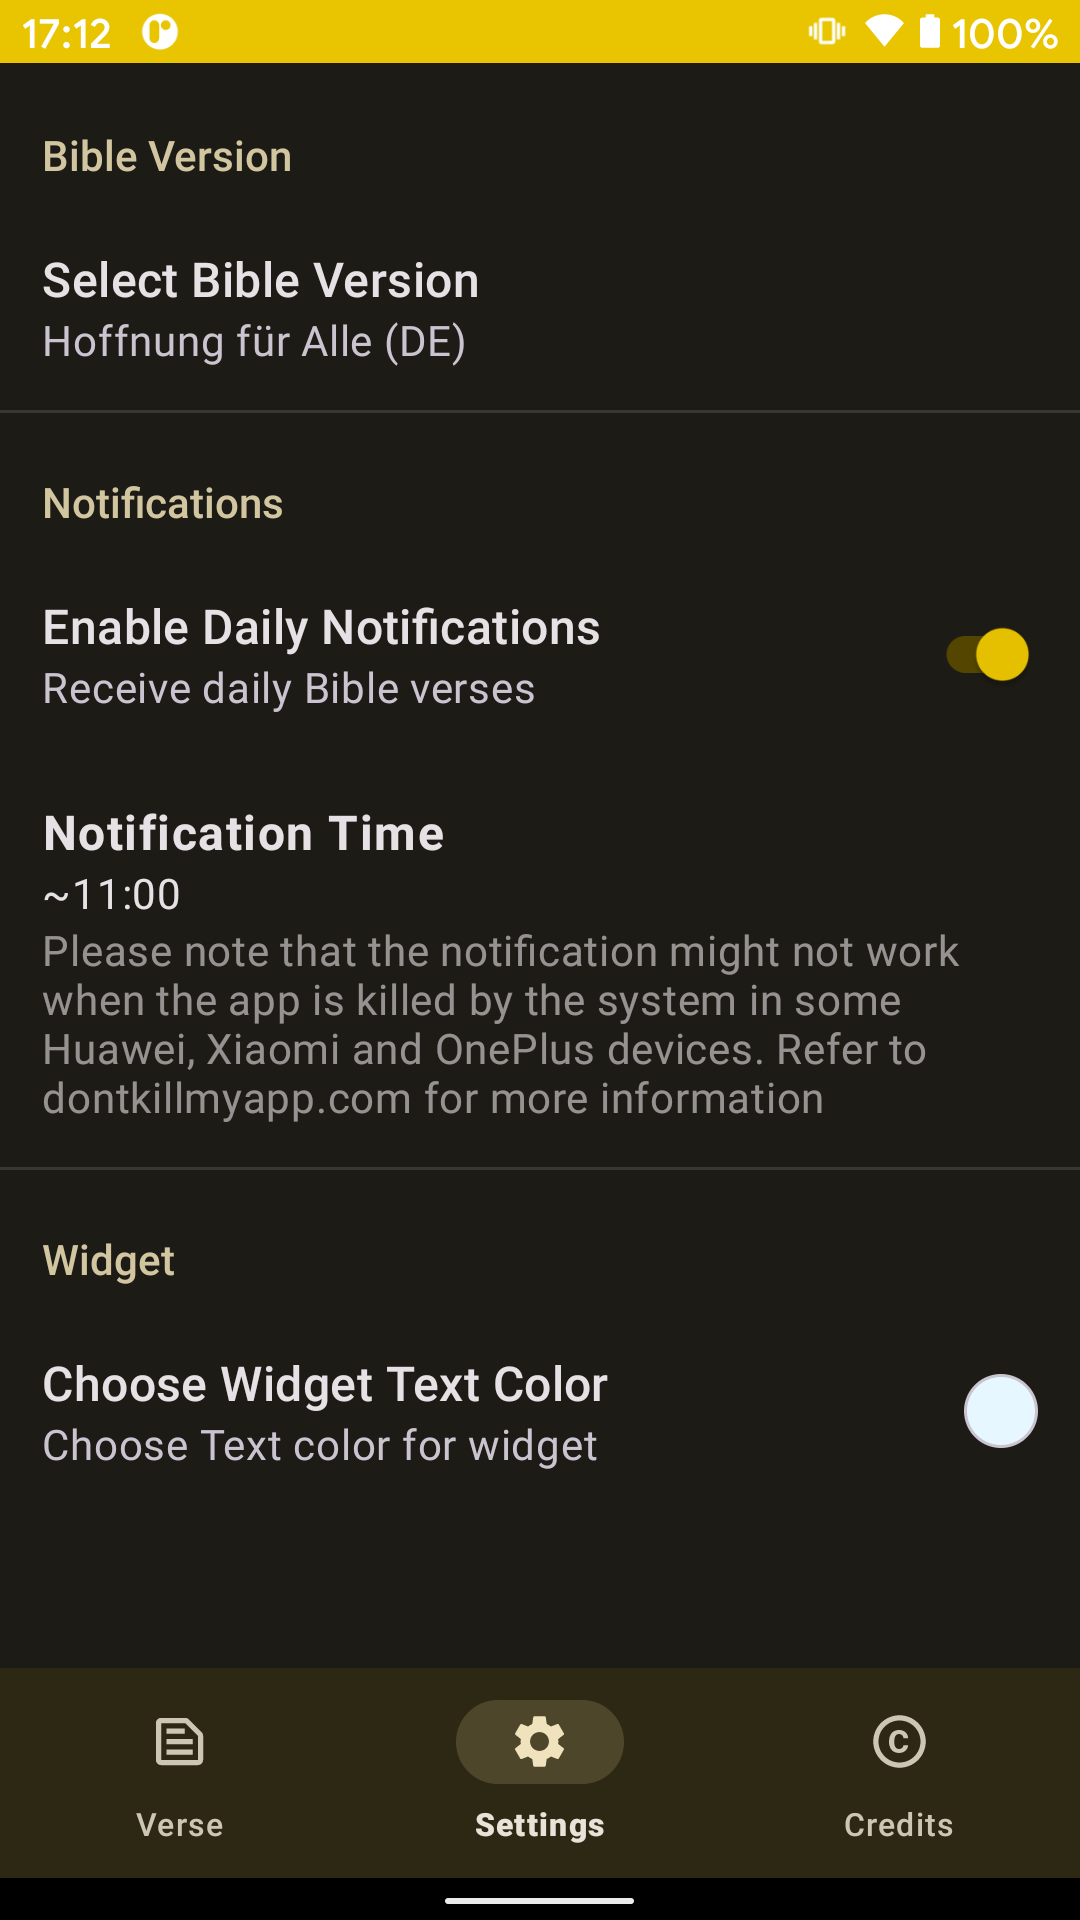
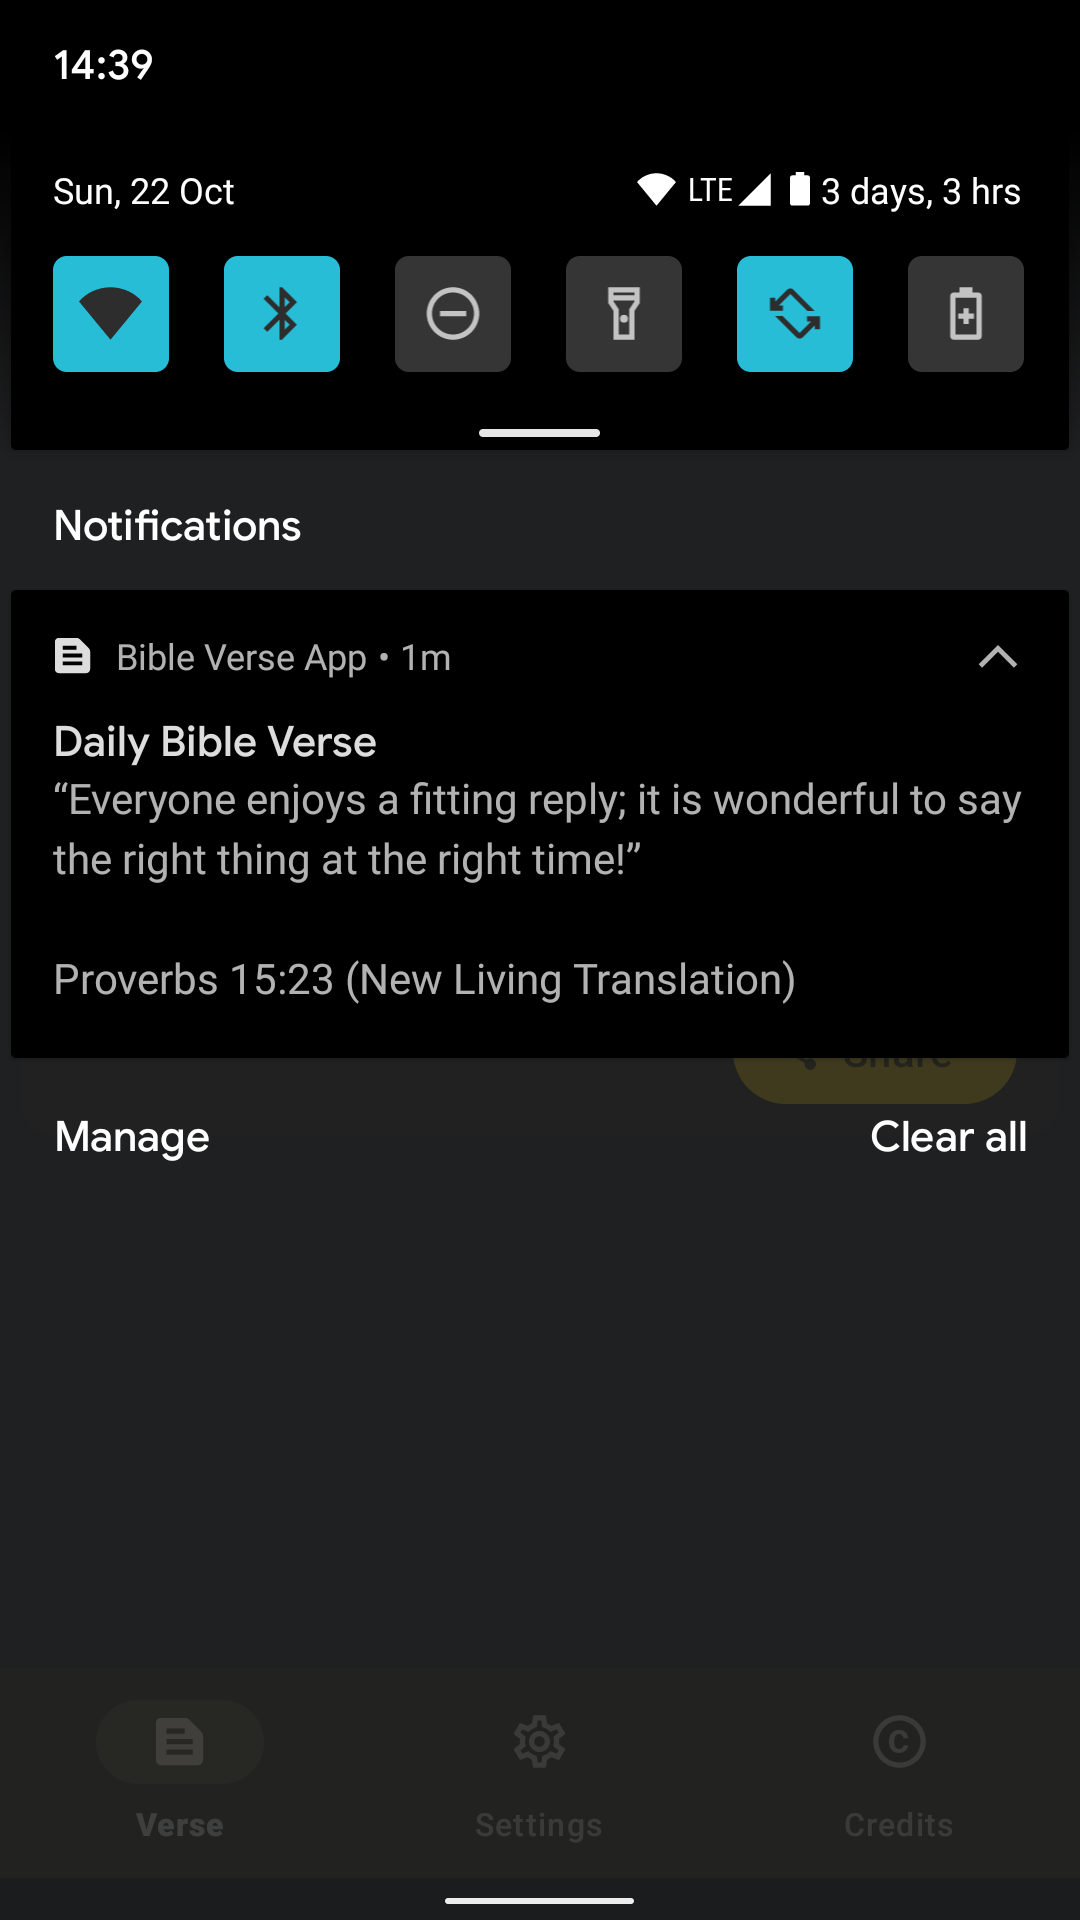
fix: resolve notification scheduling, async receiver lifecycle, and boot recovery issues
- Fix BroadcastReceiver async lifecycle by using goAsync() in NotificationReceiver
- Ensure notification channel is created dynamically and avoid invalid channel ID fallback
- Prevent past timestamp scheduling for same-day alarms in DailyVerseService
- Add BootReceiver to automatically reschedule alarms after device reboot

diff --git a/app/src/main/java/ch/joshuah/bibleverseapp/services/DailyVerseService.kt b/app/src/main/java/ch/joshuah/bibleverseapp/services/DailyVerseService.kt
@@ -12,29 +12,34 @@ import java.util.Calendar
 
 class DailyVerseService {
     fun setNotificationAlarm(context: Context, sharedPrefs: SharedPreferences) {
-        val hour = sharedPrefs.getString("notification_hour", "8")!!.toInt()
-        val minute = sharedPrefs.getString("notification_minute", "0")!!.toInt()
+        val hour = sharedPrefs.getString("notification_hour", "8")!!.toIntOrNull() ?: 8
+        val minute = sharedPrefs.getString("notification_minute", "0")!!.toIntOrNull() ?: 0
 
-        val calendar = Calendar.getInstance()
-        calendar.timeInMillis = System.currentTimeMillis()
-        calendar.set(Calendar.HOUR_OF_DAY, hour)
-        calendar.set(Calendar.MINUTE, minute)
-        calendar.set(Calendar.SECOND, 0)
+        val calendar = Calendar.getInstance().apply {
+            timeInMillis = System.currentTimeMillis()
+            set(Calendar.HOUR_OF_DAY, hour)
+            set(Calendar.MINUTE, minute)
+            set(Calendar.SECOND, 0)
+            set(Calendar.MILLISECOND, 0)
+            if (before(Calendar.getInstance())) {
+                add(Calendar.DAY_OF_MONTH, 1)
+            }
+        }
 
         val alarmManager = context.getSystemService(Context.ALARM_SERVICE) as AlarmManager
 
         val intent = Intent(context, NotificationReceiver::class.java)
-        val channelId = createNotificationChannel(context) // Create and get the channel ID
+        val channelId = createNotificationChannel(context)
         intent.putExtra("channelId", channelId)
 
         val pendingIntent = PendingIntent.getBroadcast(
             context,
             0,
             intent,
-            PendingIntent.FLAG_IMMUTABLE
+            PendingIntent.FLAG_UPDATE_CURRENT or PendingIntent.FLAG_IMMUTABLE
         )
 
-        alarmManager.setRepeating(
+        alarmManager.setInexactRepeating(
             AlarmManager.RTC_WAKEUP,
             calendar.timeInMillis,
             AlarmManager.INTERVAL_DAY,
@@ -42,37 +47,36 @@ class DailyVerseService {
         )
     }
 
-    private fun createNotificationChannel(context: Context): String {
-        val channelId = "BibleVerseChannel"
-        val notificationManager =
-            context.getSystemService(Context.NOTIFICATION_SERVICE) as NotificationManager
-
-        val channel = NotificationChannel(
-            channelId,
-            context.getString(R.string.notification_channel_name),
-            NotificationManager.IMPORTANCE_DEFAULT
-        )
-        notificationManager.createNotificationChannel(channel)
-
-        return channelId
-    }
-
     fun cancelNotificationAlarm(context: Context) {
-        // Cancel the previously scheduled notification alarm.
         val intent = Intent(context, NotificationReceiver::class.java)
         val pendingIntent = PendingIntent.getBroadcast(
             context,
             0,
             intent,
-            PendingIntent.FLAG_IMMUTABLE
+            PendingIntent.FLAG_NO_CREATE or PendingIntent.FLAG_IMMUTABLE
         )
 
         if (pendingIntent != null) {
-            val alarmManager =
-                context.getSystemService(Context.ALARM_SERVICE) as AlarmManager
+            val alarmManager = context.getSystemService(Context.ALARM_SERVICE) as AlarmManager
             alarmManager.cancel(pendingIntent)
             pendingIntent.cancel()
         }
     }
 
+    companion object {
+        fun createNotificationChannel(context: Context): String {
+            val channelId = "BibleVerseChannel"
+            val notificationManager =
+                context.getSystemService(Context.NOTIFICATION_SERVICE) as NotificationManager
+
+            val channel = NotificationChannel(
+                channelId,
+                context.getString(R.string.notification_channel_name),
+                NotificationManager.IMPORTANCE_DEFAULT
+            )
+            notificationManager.createNotificationChannel(channel)
+
+            return channelId
+        }
+    }
 }

diff --git a/app/src/main/java/ch/joshuah/bibleverseapp/services/NotificationReceiver.kt b/app/src/main/java/ch/joshuah/bibleverseapp/services/NotificationReceiver.kt
@@ -19,15 +19,17 @@ import java.util.Date
 
 class NotificationReceiver : BroadcastReceiver() {
     override fun onReceive(context: Context, intent: Intent) {
-        val channelId = intent.getStringExtra("channelId") ?: "defaultChannelId"
+        val pendingResult = goAsync()
 
-        val coroutineScope = CoroutineScope(Dispatchers.IO)
-
-        coroutineScope.launch {
-            val bibleVerse = fetchBibleVerse(context)
-            if (bibleVerse != null) {
-                val referenceAndVersion = "${bibleVerse.reference} (${bibleVerse.versionLong})"
-                createNotification(context, "${bibleVerse.text}\n\n$referenceAndVersion", channelId)
+        CoroutineScope(Dispatchers.IO).launch {
+            try {
+                val bibleVerse = fetchBibleVerse(context)
+                if (bibleVerse != null) {
+                    val referenceAndVersion = "${bibleVerse.reference} (${bibleVerse.versionLong})"
+                    createNotification(context, "${bibleVerse.text}\n\n$referenceAndVersion")
+                }
+            } finally {
+                pendingResult.finish()
             }
         }
     }
@@ -38,15 +40,14 @@ class NotificationReceiver : BroadcastReceiver() {
         return try {
             val result = bibleVerseRepository.getDailyBibleVerse(Date(), getVersion(context))
                 .first { it.isSuccess }
-                result.getOrNull()
+            result.getOrNull()
         } catch (e: Exception) {
             null
         }
     }
 
-
-
-    private fun createNotification(context: Context, bibleVerse: String, channelId: String) {
+    private fun createNotification(context: Context, bibleVerse: String) {
+        val channelId = DailyVerseService.createNotificationChannel(context)
         val notificationManager =
             context.getSystemService(Context.NOTIFICATION_SERVICE) as NotificationManager
 
@@ -73,10 +74,9 @@ class NotificationReceiver : BroadcastReceiver() {
         notificationManager.notify(notificationId, notificationBuilder.build())
     }
 
-    private fun getVersion(context : Context) : String {
+    private fun getVersion(context: Context): String {
         val defaultVersion = context.getString(R.string.preference_listPreference_bible_version_default_value)
         val preferences = PreferenceManager.getDefaultSharedPreferences(context)
         return preferences.getString("bible_version", defaultVersion) ?: defaultVersion
     }
-
 }

diff --git a/app/src/main/java/ch/joshuah/bibleverseapp/services/BootReceiver.kt b/app/src/main/java/ch/joshuah/bibleverseapp/services/BootReceiver.kt
@@ -1,0 +1,18 @@
+package ch.joshuah.bibleverseapp.services
+
+import android.content.BroadcastReceiver
+import android.content.Context
+import android.content.Intent
+import androidx.preference.PreferenceManager
+
+class BootReceiver : BroadcastReceiver() {
+    override fun onReceive(context: Context, intent: Intent) {
+        if (intent.action == Intent.ACTION_BOOT_COMPLETED || intent.action == Intent.ACTION_MY_PACKAGE_REPLACED) {
+            val sharedPrefs = PreferenceManager.getDefaultSharedPreferences(context)
+            val notificationsEnabled = sharedPrefs.getBoolean("enable_notifications", false)
+            if (notificationsEnabled) {
+                DailyVerseService().setNotificationAlarm(context, sharedPrefs)
+            }
+        }
+    }
+}
